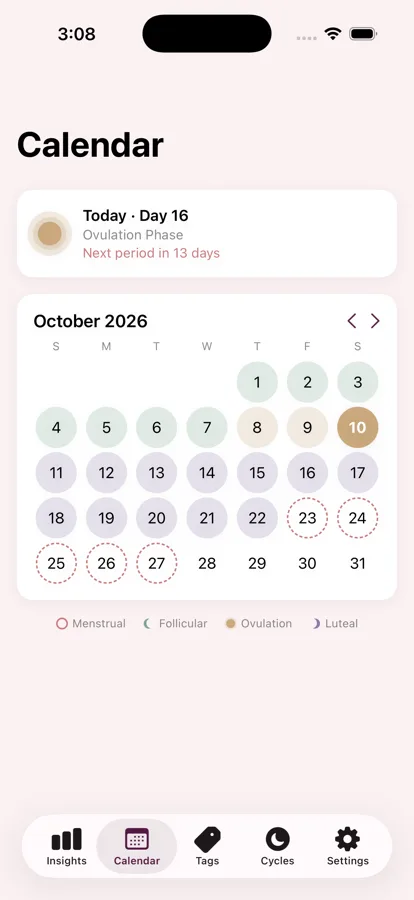
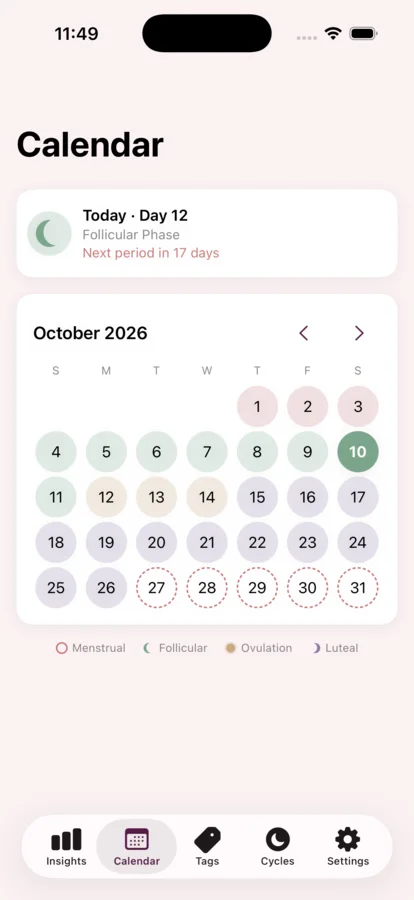
20261010-update pictures and index

diff --git a/index.html b/index.html
@@ -77,9 +77,9 @@
     <div class="blob"></div>
     <div class="device d-left" aria-hidden="true"><picture><source srcset="/assets/tab1-light.webp" type="image/webp"><img src="/assets/tab1-light.png" alt="" width="414" height="900" loading="lazy"></picture></div>
     <div class="device d-right" aria-hidden="true"><picture><source srcset="/assets/tab2-light.webp" type="image/webp"><img src="/assets/tab2-light.png" alt="" width="414" height="900" loading="lazy"></picture></div>
-    <div class="device d-main"><picture><source srcset="/assets/tab0-light.webp" type="image/webp"><img src="/assets/tab0-light.png" alt="RhythmX Insights screen showing Day 16, Ovulation Phase" width="414" height="900" fetchpriority="high"></picture></div>
-    <div class="chip" style="right:-6px;top:90px"><i style="background:var(--gold)"></i>Day 16 · Ovulation</div>
-    <div class="chip" style="left:10px;top:70px"><i style="background:var(--rose)"></i>Next period in 13 days</div>
+    <div class="device d-main"><picture><source srcset="/assets/cycles-light.webp" type="image/webp"><img src="/assets/cycles-light.png" alt="RhythmX Cycles screen showing Day 12 of 28, Follicular Phase with a waxing crescent moon" width="414" height="900" fetchpriority="high"></picture></div>
+    <div class="chip" style="right:-6px;top:90px"><i style="background:var(--gold)"></i>Day 12 · Follicular</div>
+    <div class="chip" style="left:10px;top:70px"><i style="background:var(--rose)"></i>Next period in 17 days</div>
     <div class="chip" style="right:10px;bottom:70px"><i style="background:var(--sage)"></i>100% on-device</div>
   </div>
 </div>
@@ -156,10 +156,10 @@
     <h2>Four phases, four moons</h2>
     <p class="sub">A moon for each stage, so your cycle reads at a glance.</p>
     <div class="phases">
-      <div class="phase"><span class="moon" style="background:radial-gradient(circle at 65% 40%,transparent 38%,var(--rose) 40%)"></span><h3>Menstrual</h3><p>Rest and reset. Log flow and how you feel.</p></div>
-      <div class="phase"><span class="moon" style="background:radial-gradient(circle at 70% 50%,transparent 45%,var(--sage) 47%)"></span><h3>Follicular</h3><p>Energy builds as the cycle gets going.</p></div>
-      <div class="phase"><span class="moon" style="background:var(--gold)"></span><h3>Ovulation</h3><p>The full moon of your cycle, at its peak.</p></div>
-      <div class="phase"><span class="moon" style="background:radial-gradient(circle at 30% 50%,transparent 45%,var(--lav) 47%)"></span><h3>Luteal</h3><p>Winding down. Watch for mood and body shifts.</p></div>
+      <div class="phase"><span class="moon" style="background:transparent;box-shadow:inset 0 0 0 4px var(--rose)"></span><h3>Menstrual</h3><p>Rest and reset. Log flow and how you feel.</p></div>
+      <div class="phase"><span class="moon" style="background:radial-gradient(circle at 68% 50%,transparent 52%,var(--sage) 54%)"></span><h3>Follicular</h3><p>Energy builds as the cycle gets going.</p></div>
+      <div class="phase"><span class="moon" style="background:var(--gold);box-shadow:0 0 0 6px rgba(201,168,118,.25)"></span><h3>Ovulation</h3><p>The full moon of your cycle, at its peak.</p></div>
+      <div class="phase"><span class="moon" style="background:radial-gradient(circle at 32% 50%,transparent 52%,var(--lav) 54%)"></span><h3>Luteal</h3><p>Winding down. Watch for mood and body shifts.</p></div>
     </div>
   </div>
 </section>
